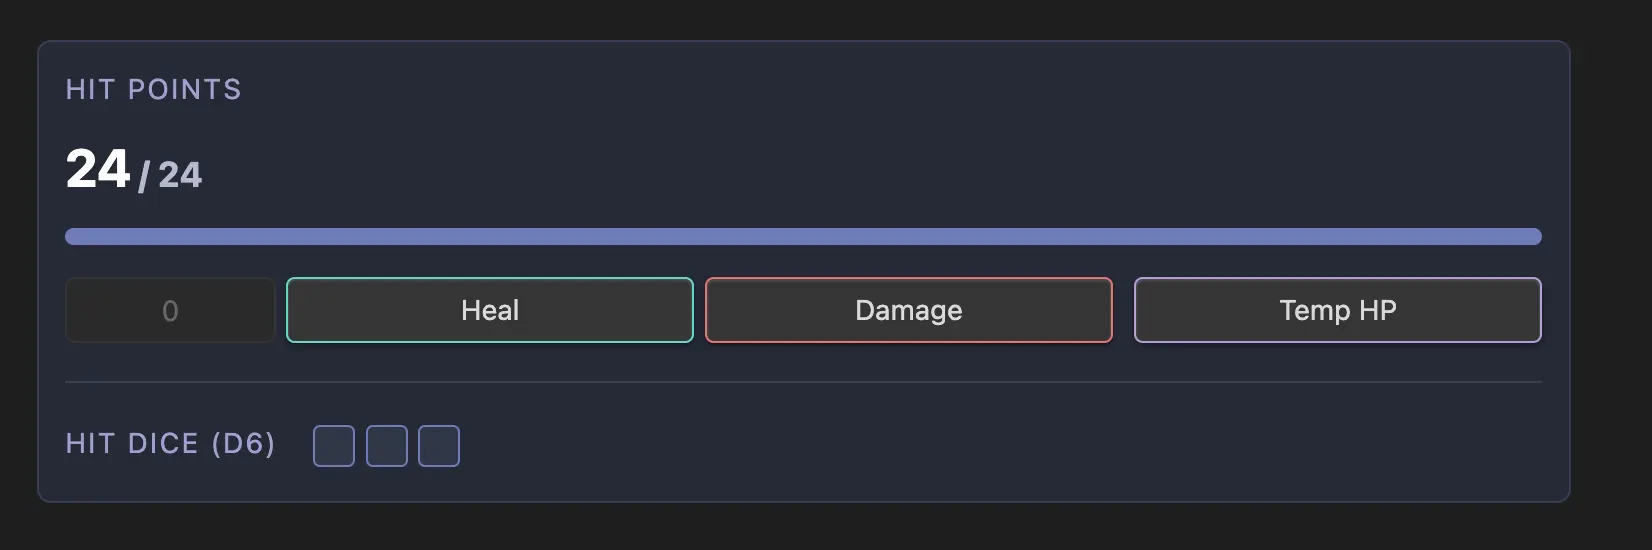
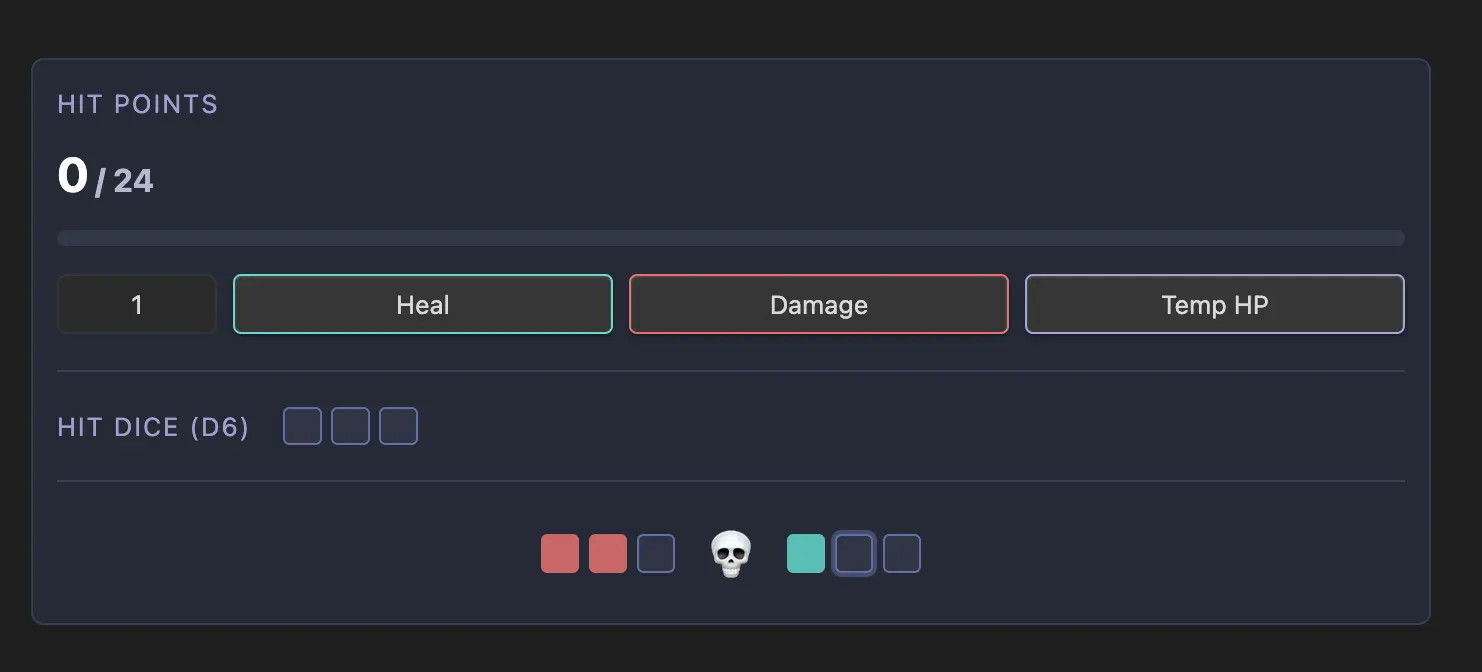
feat: add support for death saves tracking (#22)

diff --git a/lib/components/health-card.tsx b/lib/components/health-card.tsx
@@ -21,10 +21,18 @@ export function HealthCard(props: HealthCardProps) {
 		if (value <= 0) return;
 
 		const newCurrent = Math.min(props.state.current + value, props.static.health);
-		props.onStateChange({
+		const newState = {
 			...props.state,
 			current: newCurrent
-		});
+		};
+
+		// Reset death saves if health goes above 0
+		if (newCurrent > 0 && props.state.current <= 0) {
+			newState.deathSaveSuccesses = 0;
+			newState.deathSaveFailures = 0;
+		}
+
+		props.onStateChange(newState);
 		setInputValue("1");
 	};
 
@@ -89,6 +97,29 @@ export function HealthCard(props: HealthCardProps) {
 		});
 	};
 
+	// Handle death save interaction
+	const toggleDeathSave = (type: 'success' | 'failure', index: number) => {
+		const newState = { ...props.state };
+
+		if (type === 'success') {
+			const isChecked = index < props.state.deathSaveSuccesses;
+			if (isChecked) {
+				newState.deathSaveSuccesses = index;
+			} else {
+				newState.deathSaveSuccesses = index + 1;
+			}
+		} else {
+			const isChecked = index < props.state.deathSaveFailures;
+			if (isChecked) {
+				newState.deathSaveFailures = index;
+			} else {
+				newState.deathSaveFailures = index + 1;
+			}
+		}
+
+		props.onStateChange(newState);
+	};
+
 	// Handle hit dice rendering
 	const renderHitDice = () => {
 		if (!props.static.hitdice) return null;
@@ -101,6 +132,42 @@ export function HealthCard(props: HealthCardProps) {
 			);
 		}
 		return hitDiceArray;
+	};
+
+	// Handle death saves rendering
+	const renderDeathSaves = () => {
+		if (!props.static.death_saves || props.state.current > 0) return null;
+
+		const failures = [];
+		const successes = [];
+
+		// Render failures (left side)
+		for (let i = 0; i < 3; i++) {
+			failures.push(
+				<Checkbox 
+					key={`failure-${i}`} 
+					checked={i < props.state.deathSaveFailures} 
+					id={`death-save-failure-${i}`} 
+					onChange={() => toggleDeathSave('failure', i)}
+					className="death-save-failure"
+				/>
+			);
+		}
+
+		// Render successes (right side)
+		for (let i = 0; i < 3; i++) {
+			successes.push(
+				<Checkbox 
+					key={`success-${i}`} 
+					checked={i < props.state.deathSaveSuccesses} 
+					id={`death-save-success-${i}`} 
+					onChange={() => toggleDeathSave('success', i)}
+					className="death-save-success"
+				/>
+			);
+		}
+
+		return { failures, successes };
 	};
 
 	return (
@@ -169,6 +236,23 @@ export function HealthCard(props: HealthCardProps) {
 							</p>
 							<div className="hit-dice-boxes">
 								{renderHitDice()}
+							</div>
+						</div>
+					</div>
+				</>
+			)}
+
+			{props.static.death_saves && props.state.current <= 0 && (
+				<>
+					<div className="health-divider" />
+					<div className="death-saves-container">
+						<div className="death-saves-tracker">
+							<div className="death-saves-failures">
+								{renderDeathSaves()?.failures}
+							</div>
+							<div className="death-saves-skull">💀</div>
+							<div className="death-saves-successes">
+								{renderDeathSaves()?.successes}
 							</div>
 						</div>
 					</div>

diff --git a/lib/styles/components/health-card.css b/lib/styles/components/health-card.css
@@ -134,3 +134,43 @@
 	align-items: center;
 }
 
+/* Death Saves Styles */
+.death-saves-container {
+	width: 100%;
+	margin-top: 0.3rem;
+	margin-bottom: 0.3rem;
+}
+
+.death-saves-tracker {
+	display: flex;
+	align-items: center;
+	justify-content: center;
+	gap: 1rem;
+}
+
+.death-saves-failures {
+	display: flex;
+	gap: 0.3rem;
+}
+
+.death-saves-successes {
+	display: flex;
+	gap: 0.3rem;
+}
+
+.death-saves-skull {
+	font-size: 1.5rem;
+	user-select: none;
+}
+
+/* Death Save Checkbox Styles */
+.death-save-failure[aria-pressed="true"] {
+	background-color: var(--color-accent-red) !important;
+	border-color: var(--color-accent-red) !important;
+}
+
+.death-save-success[aria-pressed="true"] {
+	background-color: var(--color-accent-teal) !important;
+	border-color: var(--color-accent-teal) !important;
+}
+

diff --git a/lib/domains/healthpoints.ts b/lib/domains/healthpoints.ts
@@ -6,6 +6,8 @@ export interface HealthState {
 	current: number;
 	temporary: number;
 	hitdiceUsed: number;
+	deathSaveSuccesses: number;
+	deathSaveFailures: number;
 }
 
 export function parseHealthBlock(yamlString: string): HealthBlock & { state_key?: string } {
@@ -14,7 +16,8 @@ export function parseHealthBlock(yamlString: string): HealthBlock & { state_key?
 		// @ts-expect-error - no viable default for state_key
 		state_key: undefined,
 		health: 6,
-		hitdice: undefined
+		hitdice: undefined,
+		death_saves: true
 	}
 
 	const parsed = parse(yamlString);
@@ -26,5 +29,7 @@ export function getDefaultHealthState(block: HealthBlock): HealthState {
 		current: block.health,
 		temporary: 0,
 		hitdiceUsed: 0,
+		deathSaveSuccesses: 0,
+		deathSaveFailures: 0,
 	};
 }

diff --git a/lib/components/checkbox.tsx b/lib/components/checkbox.tsx
@@ -2,14 +2,15 @@ export type CheckboxProps = {
 	id: string;
 	checked: boolean;
 	onChange: () => void;
+	className?: string;
 }
 
 
-export function Checkbox({ id, checked, onChange }: CheckboxProps) {
+export function Checkbox({ id, checked, onChange, className }: CheckboxProps) {
 	return (
 		<button
 			id={id}
-			className="checkbox-button clickable-icon"
+			className={`checkbox-button clickable-icon ${className || ''}`}
 			onClick={onChange}
 			aria-pressed={checked}
 			type="button"

diff --git a/lib/types.ts b/lib/types.ts
@@ -56,6 +56,7 @@ export type HealthBlock = {
 		dice: string;
 		value: number;
 	};
+	death_saves?: boolean;
 }
 
 export type ConsumableBlock = {

diff --git a/README.md b/README.md
@@ -25,7 +25,7 @@ An easy way to get started is to look at an example in the [examples](./docs/exa
 - Display character information with grid of cards
 - Display Ability Scores and saving throws
 - Display Skills calculated off ability scores
-- HP Widget: Track your characters HP and hit dice (also support for monsters)
+- HP Widget: Track your characters HP, hit dice, and death saves (also support for monsters)
 - Spell Slot Tracking
 - General Consumables Tracking
 - Initiative Tracker: Combat management with AC, HP, and initiative order
@@ -149,6 +149,9 @@ You can also provide a custom `label` key to override the default `Hit Points`, 
 creating an encounter want to track HP of several monsters on a single notebook.
 
 You can also omit the `hitdice` and that part of the component will be omitted from view.
+
+### Death Saves
+The health widget includes automatic death save tracking when a character reaches 0 HP. Death saves automatically reset when the character's health returns above 0. You can disable death saves by setting `death_saves: false`.
 
 ![Rendered Example](./docs/images/example-hp-widget.webp)
 
